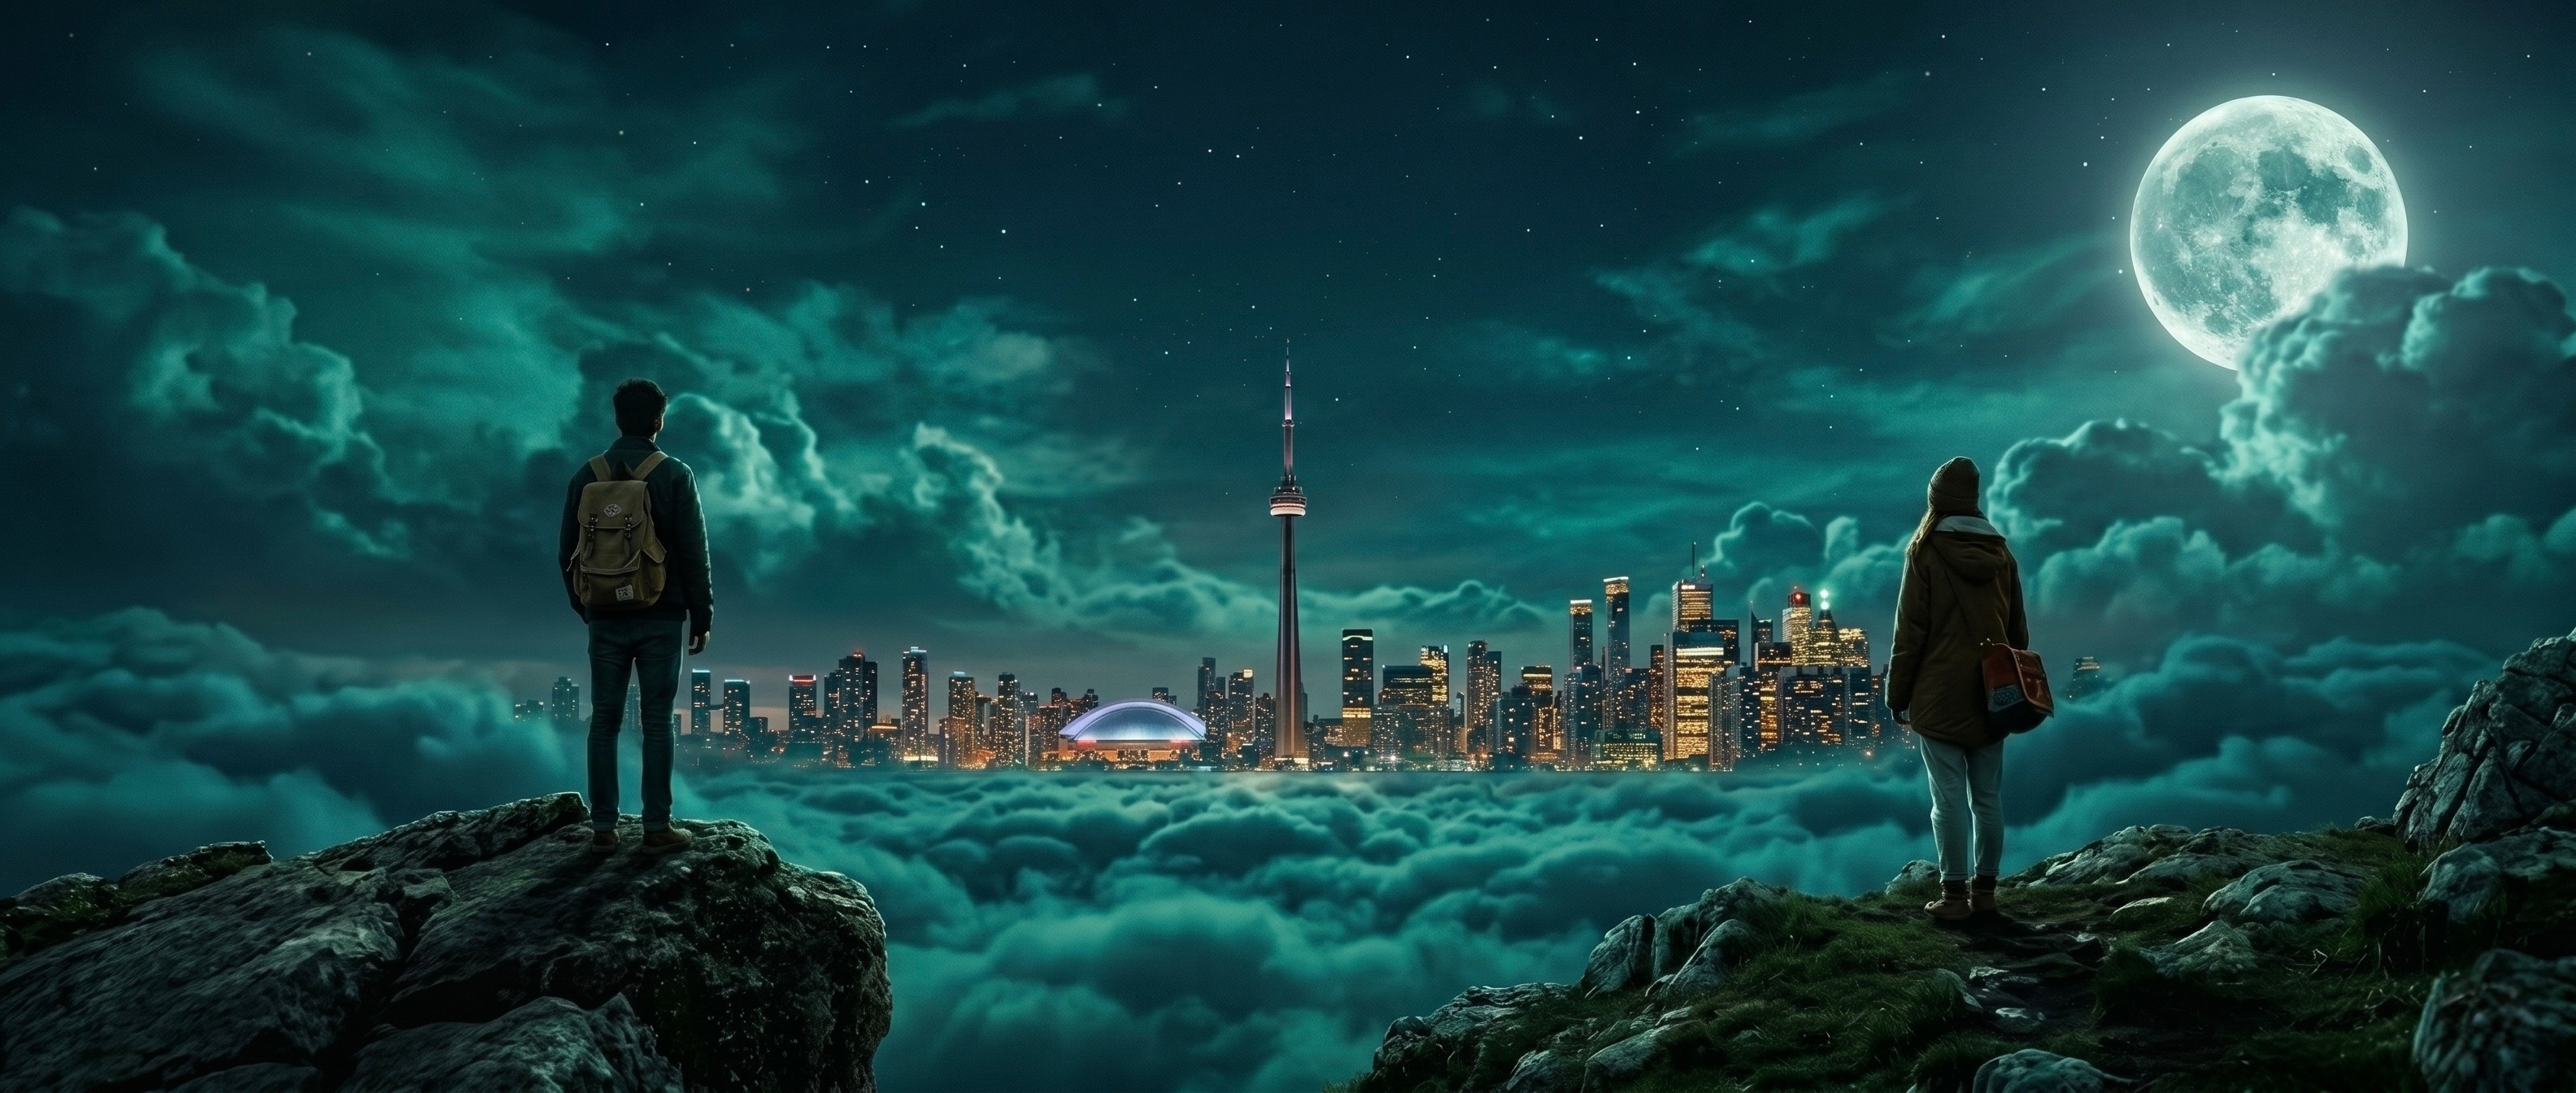
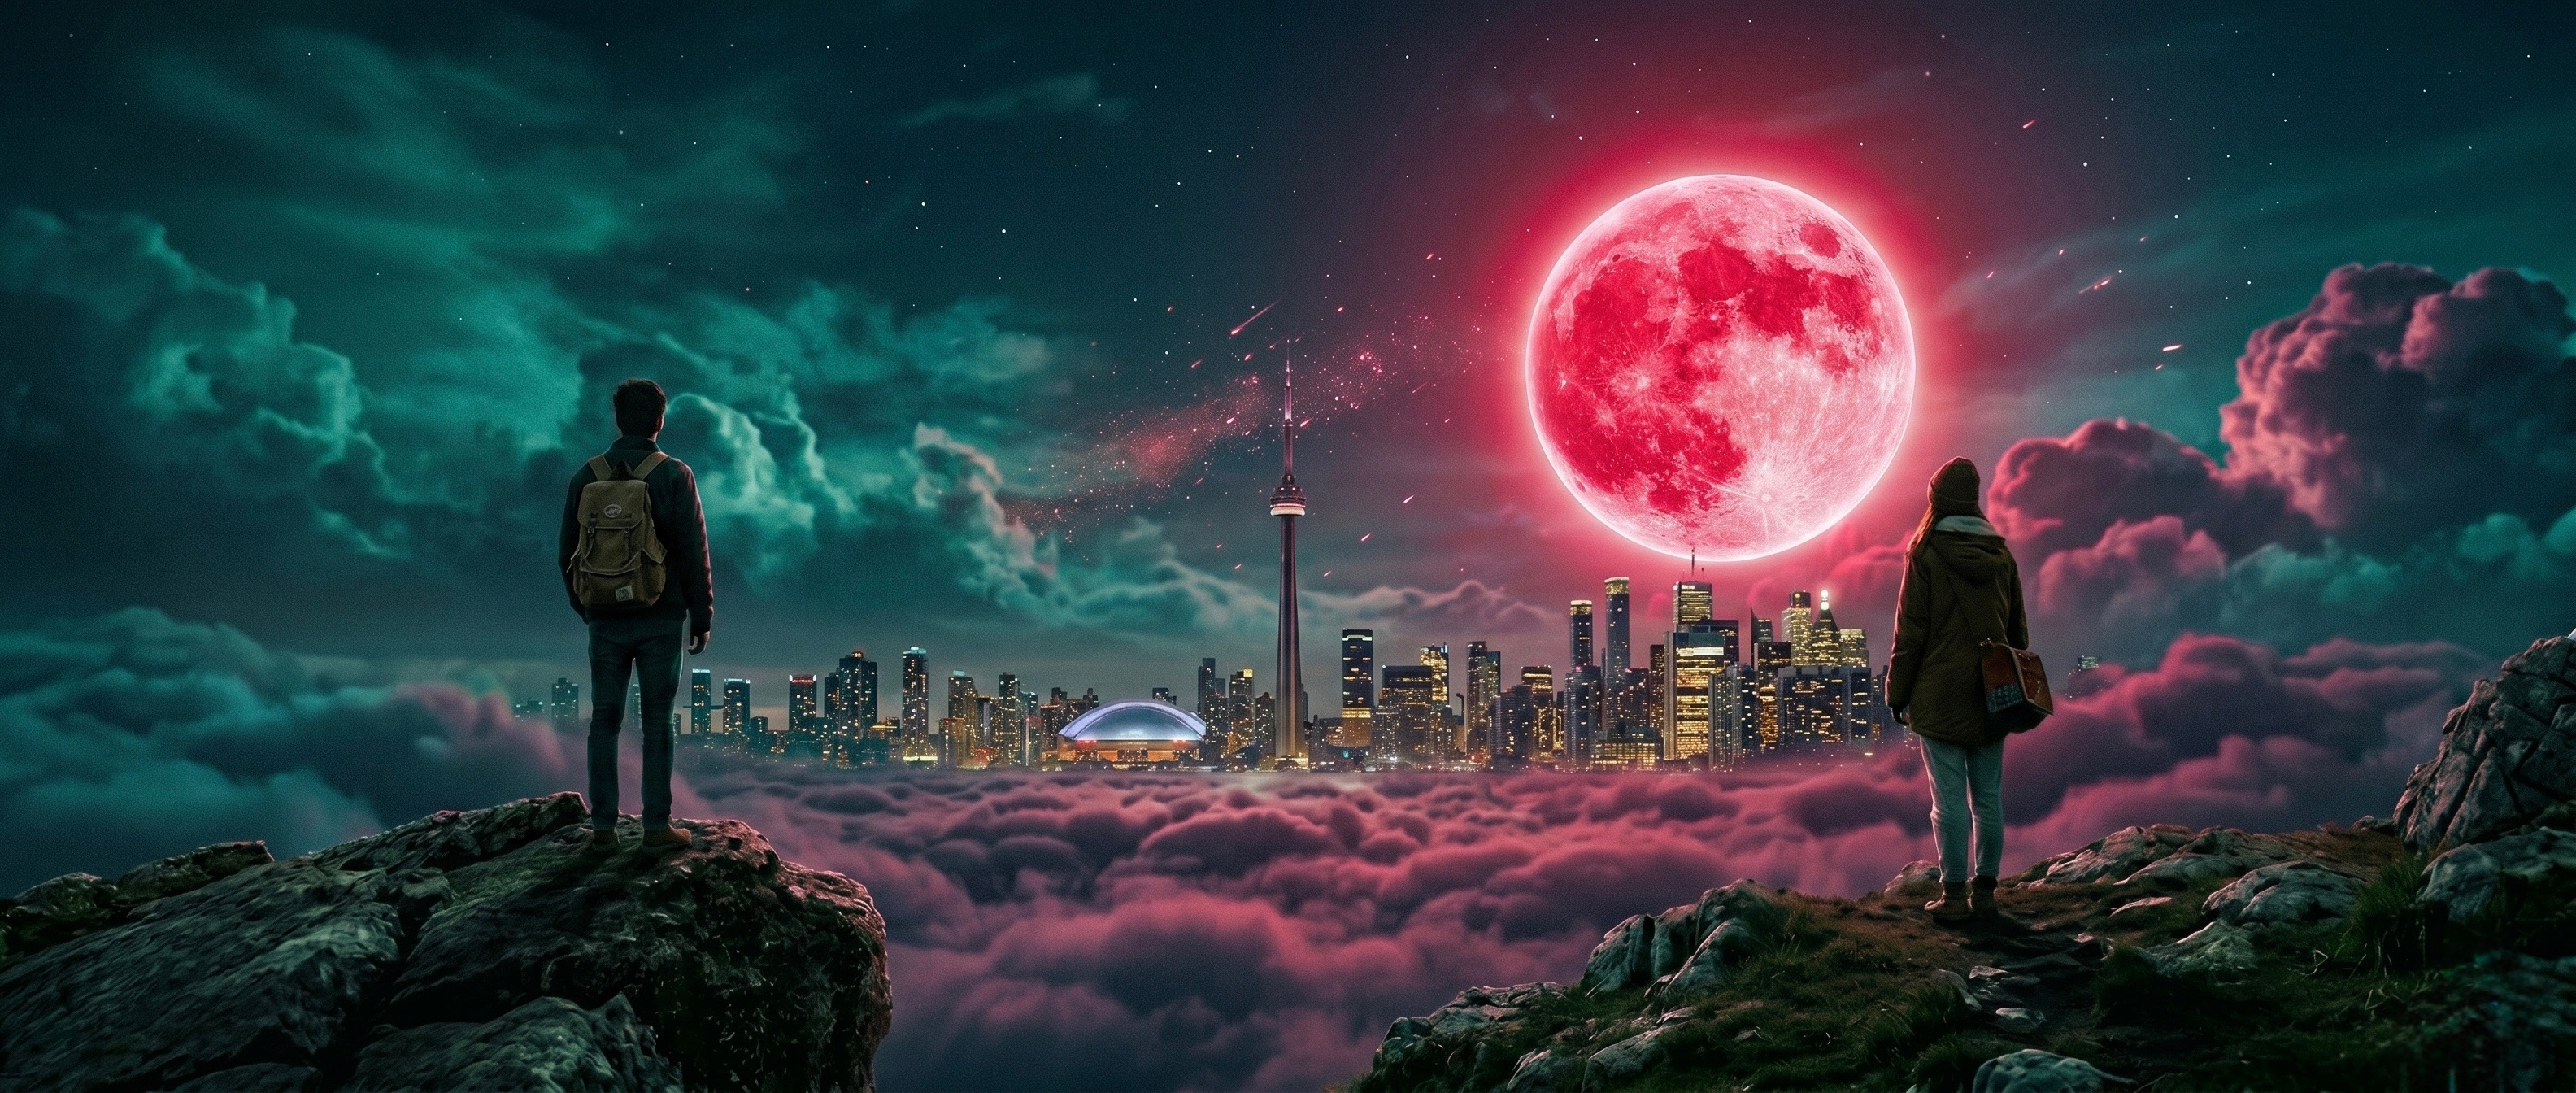
StudenzBitDetail: use Studenzbit_1/2 PNGs from public.
Point hero and section 2 backgrounds to correct casing and sync updated hero artwork.

diff --git a/src/app/components/StudenzBitDetail.jsx b/src/app/components/StudenzBitDetail.jsx
@@ -131,7 +131,7 @@ export default function StudenzBitDetail() {
           marginTop: 0,
           height: '100vh',
           backgroundImage:
-            "linear-gradient(rgba(0,0,0,0.25), rgba(0,0,0,0.25)), url('/studenzbit_1.png')",
+            "linear-gradient(rgba(0,0,0,0.25), rgba(0,0,0,0.25)), url('/Studenzbit_1.png')",
           backgroundSize: 'cover',
           backgroundPosition: 'center',
           backgroundAttachment: 'scroll',
@@ -393,7 +393,7 @@ export default function StudenzBitDetail() {
           height: '100vh',
           width: '100%',
           backgroundImage:
-            "url('/studenzbit_2.png')",
+            "url('/Studenzbit_2.png')",
           backgroundSize: 'cover',
           backgroundPosition: 'center',
           overflow: 'hidden',